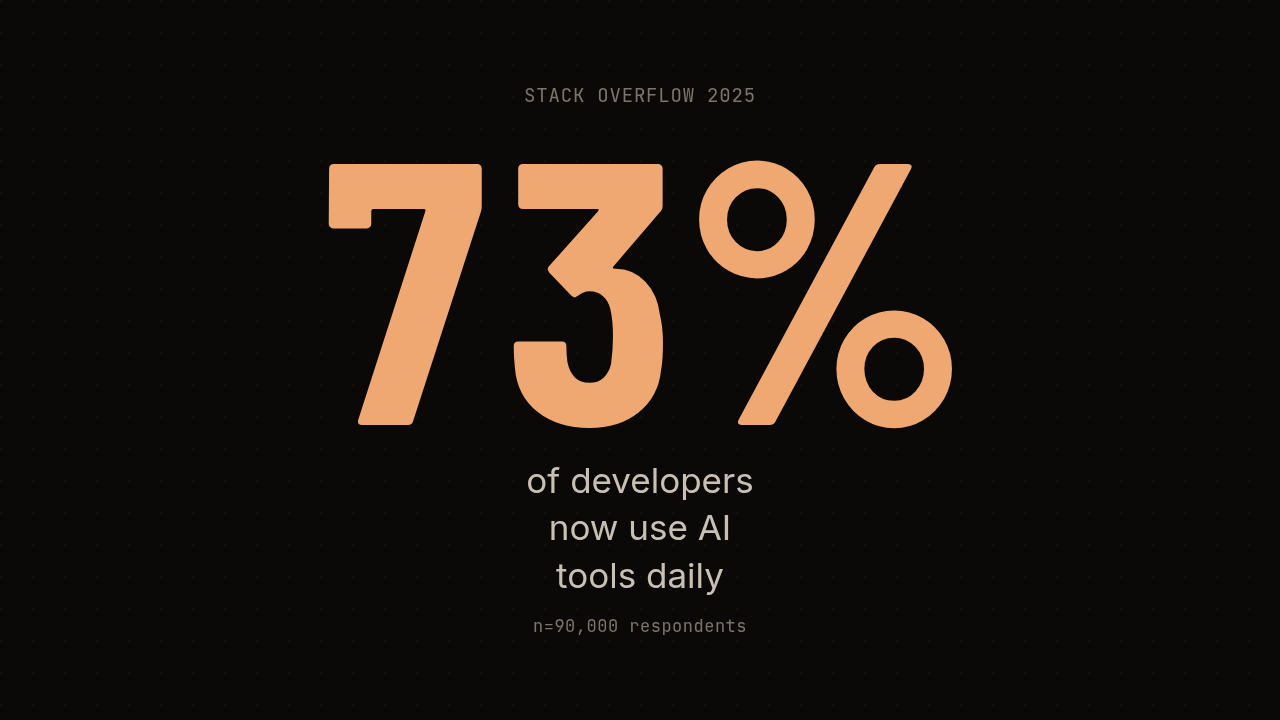
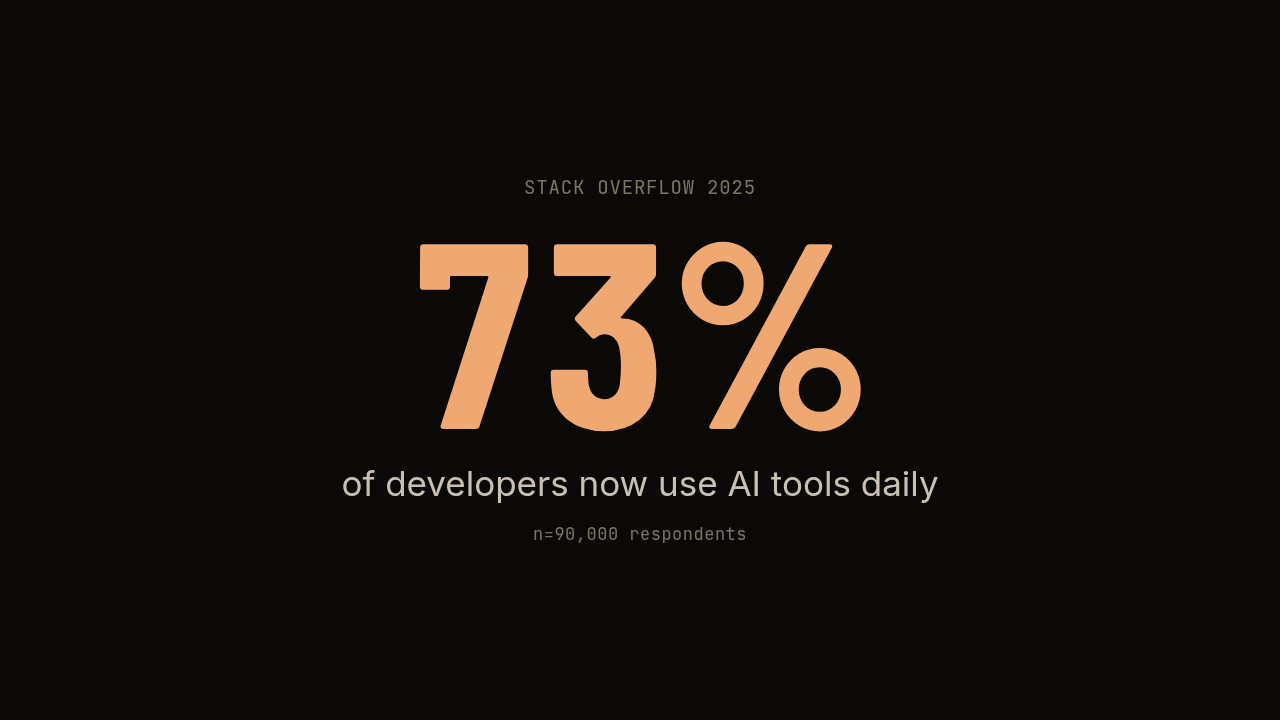
fix(templates): stat-number's 24ch column was 242px, not 24 characters of the number
Round 2 of the same client deck ("Hackeando o Futuro — Deck de Patrocínio",
Lesson Studio project 7ebb3066-b55d-44d6-b6c9-d8e3d1a290b5, 11 slides). PR #78
cleared slide 8; the export then stopped at slide 10 of 11, and the studio's
guard (`slideContentOverflow.ts`) named four elements:

  span.tpl-stat-number__eyebrow "Investimento por turma · 12 meses"  top    +394.9px
  div.tpl-stat-number__value    "R$ 160 mil"                         top    +321.9px
  p.tpl-stat-number__label      "para formar 15 jovens com plataf…"  bottom +327.9px
  span.tpl-stat-number__source  "Hackeando o Futuro · proposta…"     bottom +394.9px

The guard is right. The template was wrong. This time the WHOLE deck was
measured first, so there is no round 3.

**The mechanism: `ch` counts the element's OWN type, and this element had none.**
`.tpl-stat-number__inner` carried `max-width: 24ch`, which reads as "24
characters of the hero number". `ch` resolves against the element's own
font-size; `__inner` declares none, so it inherited 16px from `.tpl-root` and
the column measured **242.3px** — 24 × 10.096px, the "0" advance of Inter at
16px. Not 24 characters of anything on the slide, and narrower than TWO glyphs
of the 373px number it was supposed to be measuring. Portrait's `12ch` was
121.1px. Every part of the slide then wrapped inside that column, and the root
is `display:flex; align-items:center`, so the over-tall column overflowed
[…]

diff --git a/templates/stat-number/landscape.css b/templates/stat-number/landscape.css
@@ -28,13 +28,34 @@
 
 .tpl-root.tpl-stat-number > * { position: relative; z-index: 1; }
 
+/*
+ * The column measure.
+ *
+ * This used to be `max-width: 24ch`, which reads as "24 characters of the hero
+ * number" and is not what it does: `ch` resolves against the ELEMENT'S OWN
+ * font-size, this element declares none, and it therefore inherited 16px from
+ * the root — 24 × 10.096px = 242.3px, a column narrower than one glyph of the
+ * 373px number it was supposed to be measuring. Every part of the slide was
+ * then wrapped inside 242px.
+ *
+ * The measure now lives on `__label`, in `ch` of the label's own 35px type,
+ * which is the only element here whose width a character count describes
+ * (44ch = 971.5px). The column itself is 1184px: the canvas less a 48px
+ * optical margin, tighter than the root's 96px text margin because a display
+ * number carries its own side-bearing and reads as inset at 48px. The label
+ * keeps the text margin.
+ */
 .tpl-root.tpl-stat-number .tpl-stat-number__inner {
   display: flex;
   flex-direction: column;
   align-items: center;
   text-align: center;
   gap: 16px;
-  max-width: 24ch;
+  /* `flex: none` because the column is WIDER than the root's text box: a
+     flex item shrinks to the available 1088px/570px by default, which would
+     silently undo the optical margin. */
+  flex: none;
+  width: 1184px;
 }
 
 .tpl-root.tpl-stat-number .tpl-stat-number__eyebrow {
@@ -45,14 +66,61 @@
   color: var(--s-ink-muted, #7d7568);
 }
 
+/*
+ * The hero size, and why it is 264px and not 373px.
+ *
+ * 373px only ever fitted a THREE-character value. The width a value occupies
+ * is a fixed multiple of the font-size — measured in Barlow Condensed 700 with
+ * `tnum` on, so these hold at any size:
+ *
+ *   "7" 0.497×  ·  "3x" 0.935×  ·  "73%" 1.759×  ·  "100%" 2.256×
+ *   "91,3%" 2.466×  ·  "+R$ 10 mil" 3.841×  ·  "R$ 160 mil" 3.901×
+ *   "R$1.234.567" 4.835×  ·  "R$ 1,2 milhão" 4.945×
+ *
+ * At 373px "R$ 160 mil" is 1455px, against a 1088px text column: it could not
+ * stay on one line at any width this canvas has. 264px is the largest size
+ * that satisfies BOTH guarantees this template now makes.
+ *
+ *   1. Up to 3.9× (a ten-character "R$ 160 mil") sets on ONE line inside the
+ *      1184px column — 1184 / 3.901 = 303px, taken to 264px for margin, which
+ *      puts that value at 1028.8px, inside even the 1088px text box.
+ *   2. Anything longer WRAPS, and two wrapped lines (2 × 0.82 × 264 = 432.9px)
+ *      still fit under a three-line label with both optional slots present:
+ *      432.9 + 247.8 = 680.7px of 720px. Measured worst case, "Mais de 200 mil
+ *      reais" (7.705×, 2031.5px intrinsic), breaks 1157.2 + 821.9 = two lines.
+ *
+ * Wrapping is the step-down, so the template never has to know how long the
+ * value is — which is just as well, because CSS cannot be told. `:has()`
+ * counts ELEMENTS, which is what 2e796d7 (table rows) and 6e4b4b7 (tree
+ * children) select density from, and this template's markup carries no element
+ * per character; a container query cannot read a content-sized container at
+ * all, because `container-type` applies containment in the queried axis.
+ *
+ * `overflow-wrap: break-word` is the floor under both: a single token with no
+ * break opportunity that is still wider than the column (an unspaced
+ * "R$1.234.567" is 1275.2px here) breaks inside the column instead of leaving
+ * the canvas — measured 1144.1 + 131.1. Not `white-space: nowrap`, which is
+ * exactly the construct that put hierarchy-tree's labels off the slide in
+ * 6e4b4b7.
+ *
+ * The value keeps greedy wrapping and does NOT take the label's
+ * `text-wrap: balance`. Balance can spend a line to even the line lengths:
+ * at 272px in this column "Mais de 200 mil reais" sets greedy as
+ * 1151.6 + 847.0 (two lines) and balanced as 733.2 + 758.0 + 494.1 (three),
+ * and the third line costs 223px the slide does not have. Balance is a good
+ * rule for a caption and a bad one for the element whose line count IS the
+ * budget.
+ */
 .tpl-root.tpl-stat-number .tpl-stat-number__value {
   font-family: var(--s-font-display, 'Barlow Condensed', sans-serif);
-  font-size: 373px;
+  font-size: 264px;
   font-weight: var(--p-weight-700, 700);
   line-height: 0.82;
   letter-spacing: var(--p-tracking-tight, -0.4px);
   color: var(--s-brand-fg, #f0a872);
   font-feature-settings: "tnum" 1;
+  max-width: 100%;
+  overflow-wrap: break-word;
 }
 
 .tpl-root.tpl-stat-number .tpl-stat-number__label {
@@ -60,6 +128,7 @@
   line-height: 1.35;
   color: var(--s-ink-secondary, #c9c0b4);
   margin: 11px 0 0;
+  max-width: 44ch;
   text-wrap: balance;
 }
 

diff --git a/templates/stat-number/portrait.css b/templates/stat-number/portrait.css
@@ -28,13 +28,24 @@
 
 .tpl-root.tpl-stat-number.tpl-stat-number--portrait > * { position: relative; z-index: 1; }
 
+/*
+ * Same defect as landscape, same fix: `max-width: 12ch` resolved against the
+ * 16px this element inherits, not against the 347px number it was written for,
+ * so the whole slide was laid out inside 121.1px. The measure moves to
+ * `__label`, in `ch` of the label's own 37px type (24ch = 560.2px); the column
+ * is the canvas less a 40px optical margin for the display number.
+ */
 .tpl-root.tpl-stat-number.tpl-stat-number--portrait .tpl-stat-number__inner {
   display: flex;
   flex-direction: column;
   align-items: center;
   text-align: center;
   gap: 16px;
-  max-width: 12ch;
+  /* `flex: none` because the column is WIDER than the root's text box: a
+     flex item shrinks to the available 1088px/570px by default, which would
+     silently undo the optical margin. */
+  flex: none;
+  width: 640px;
 }
 
 .tpl-root.tpl-stat-number.tpl-stat-number--portrait .tpl-stat-number__eyebrow {
@@ -45,14 +56,33 @@
   color: var(--s-ink-muted, #7d7568);
 }
 
+/*
+ * Portrait is WIDTH-bound where landscape is HEIGHT-bound, and it is the
+ * orientation where the shipped size failed on the template's OWN kind of
+ * value: "91,3%" (2.466×) at 347px is 855.4px on a 720px canvas, so it stood
+ * 67.7px past BOTH edges — a single unbreakable token, which is why nobody saw
+ * it. Only the three-character sample ("73%", 610.2px) stayed on.
+ *
+ * The column is 640px, so the one-line budget is 640 / 2.466 = 259px. 248px
+ * keeps every value up to 2.58× on one line. Longer values wrap, and portrait
+ * has the height to absorb them: "R$ 160 mil" sets on three lines (610.1px,
+ * total column 970.8px inside the 1088px text box), and the measured worst
+ * case "Mais de 200 mil reais" on four (813.4px, total 1174.1px of 1280px).
+ *
+ * Same two riders as landscape: `overflow-wrap: break-word` so an unbreakable
+ * token breaks inside the column instead of leaving the canvas, and greedy
+ * wrapping on the value rather than the label's `text-wrap: balance`.
+ */
 .tpl-root.tpl-stat-number.tpl-stat-number--portrait .tpl-stat-number__value {
   font-family: var(--s-font-display, 'Barlow Condensed', sans-serif);
-  font-size: 347px;
+  font-size: 248px;
   font-weight: var(--p-weight-700, 700);
   line-height: 0.82;
   letter-spacing: var(--p-tracking-tight, -0.4px);
   color: var(--s-brand-fg, #f0a872);
   font-feature-settings: "tnum" 1;
+  max-width: 100%;
+  overflow-wrap: break-word;
 }
 
 .tpl-root.tpl-stat-number.tpl-stat-number--portrait .tpl-stat-number__label {
@@ -60,6 +90,7 @@
   line-height: 1.35;
   color: var(--s-ink-secondary, #c9c0b4);
   margin: 16px 0 0;
+  max-width: 24ch;
   text-wrap: balance;
 }
 

diff --git a/templates/big-statement/landscape.css b/templates/big-statement/landscape.css
@@ -28,13 +28,38 @@
 
 .tpl-root.tpl-big-statement > * { position: relative; z-index: 1; }
 
+/*
+ * Same defect as stat-number, found by the same audit (2026-08-12): a `ch`
+ * measure on a container that declares no font-size. `max-width: 22ch` reads
+ * as "22 characters of the statement" and resolved against the 16px this
+ * element inherits from the root — 22 × 10.096 = 222.1px, for a column that
+ * carries 85px type.
+ *
+ * It did not fail the export guard, because a flex item's `min-width: auto`
+ * floors it at min-content: the box widened to the longest WORD and the
+ * statement set in a ragged column a quarter of the slide wide. It failed to
+ * FIT: this template's own SAMPLE_DATA statement ("AI won't replace developers
+ * — developers using AI will replace those who don't.") set on TEN lines,
+ * 866.9px tall on a 720px canvas, and stood 104.4px past both edges. The
+ * committed preview-landscape.png on main is that render.
+ *
+ * The measure moves to the statement, in `ch` of its own 85px type: 22ch =
+ * 847.1px, inside the 1024px text box, which is what 22ch was always meant to
+ * say. The same sample now sets on THREE lines, 260.1px tall.
+ *
+ * `overflow-wrap: break-word` is the floor: a word wider than the measure
+ * would otherwise paint outside a box the guard measures as being inside, and
+ * a box-sized guard cannot see ink. It costs a mid-word break above ~22
+ * display characters (a 16-character "SUPERINTENDÊNCIA" is 593.4px and still
+ * fits one line here).
+ */
 .tpl-root.tpl-big-statement .tpl-big-statement__inner {
   display: flex;
   flex-direction: column;
   align-items: center;
   gap: 37px;
   text-align: center;
-  max-width: 22ch;
+  width: 100%;
 }
 
 .tpl-root.tpl-big-statement .tpl-big-statement__eyebrow {
@@ -53,5 +78,7 @@
   letter-spacing: var(--p-tracking-tight, -0.4px);
   color: var(--s-ink-primary, #f6f1e7);
   margin: 0;
+  max-width: 22ch;
+  overflow-wrap: break-word;
   text-wrap: balance;
 }

diff --git a/templates/big-statement/portrait.css b/templates/big-statement/portrait.css
@@ -28,13 +28,26 @@
 
 .tpl-root.tpl-big-statement.tpl-big-statement--portrait > * { position: relative; z-index: 1; }
 
+/*
+ * Same `ch`-on-a-container defect as landscape: `max-width: 16ch` resolved
+ * against the inherited 16px and made a 161.5px column for 88px type. The
+ * measure moves to the statement, in `ch` of its own 88px type. It cannot stay
+ * 16ch: at 88px that is 637.9px and this canvas only has a 570px text box, so
+ * the honest transposition is 14ch = 558.1px, the widest measure that fits.
+ *
+ * `overflow-wrap: break-word` on the statement stops a long word painting
+ * outside a box the guard measures as inside. The measured limit: a word wider
+ * than 558.1px breaks mid-word, which starts at ~15 display characters — a
+ * 16-character "SUPERINTENDÊNCIA" (593.4px) breaks here, and does not in
+ * landscape.
+ */
 .tpl-root.tpl-big-statement.tpl-big-statement--portrait .tpl-big-statement__inner {
   display: flex;
   flex-direction: column;
   align-items: center;
   gap: 37px;
   text-align: center;
-  max-width: 16ch;
+  width: 100%;
 }
 
 .tpl-root.tpl-big-statement.tpl-big-statement--portrait .tpl-big-statement__eyebrow {
@@ -53,5 +66,7 @@
   letter-spacing: var(--p-tracking-tight, -0.4px);
   color: var(--s-ink-primary, #f6f1e7);
   margin: 0;
+  max-width: 14ch;
+  overflow-wrap: break-word;
   text-wrap: balance;
 }
